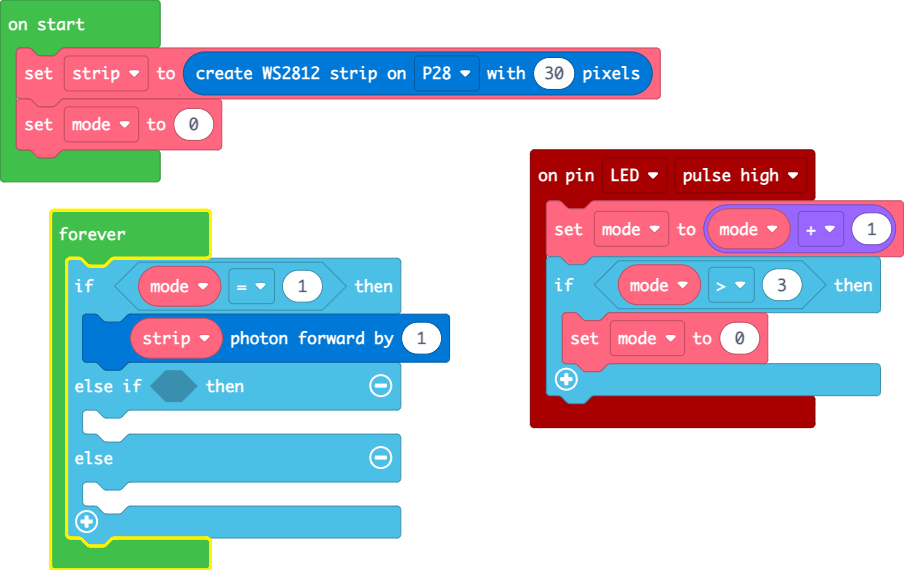
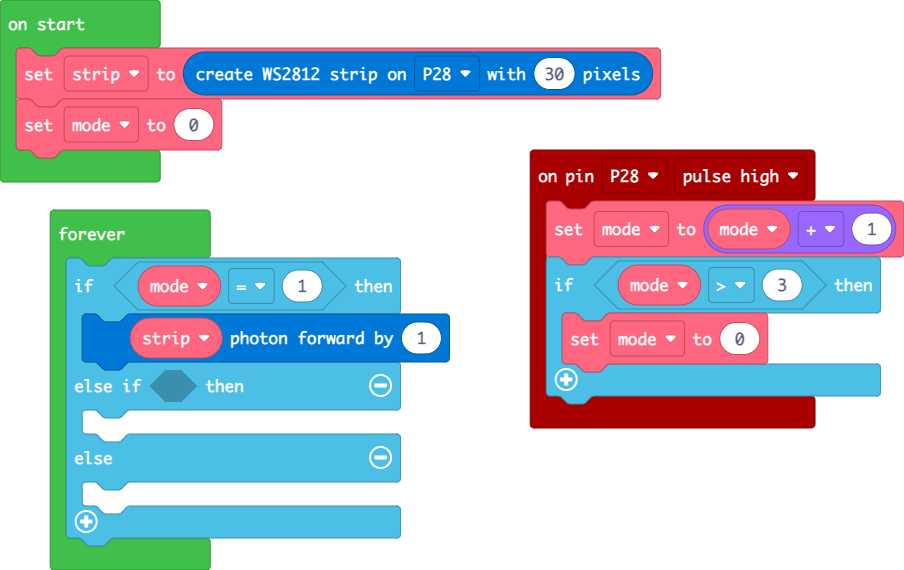
Update main.blocks, main.ts

diff --git a/main.ts b/main.ts
@@ -1,4 +1,4 @@
-pins.LED.onEvent(PinEvent.PulseHigh, function () {
+pins.P28.onEvent(PinEvent.PulseHigh, function () {
     mode = mode + 1
     if (mode > 3) {
         mode = 0
